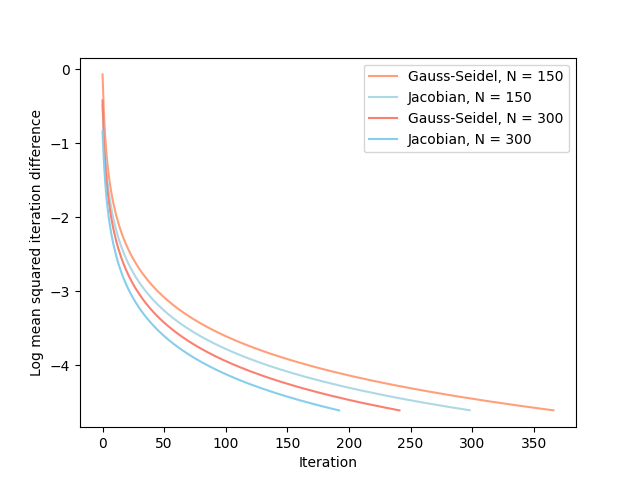
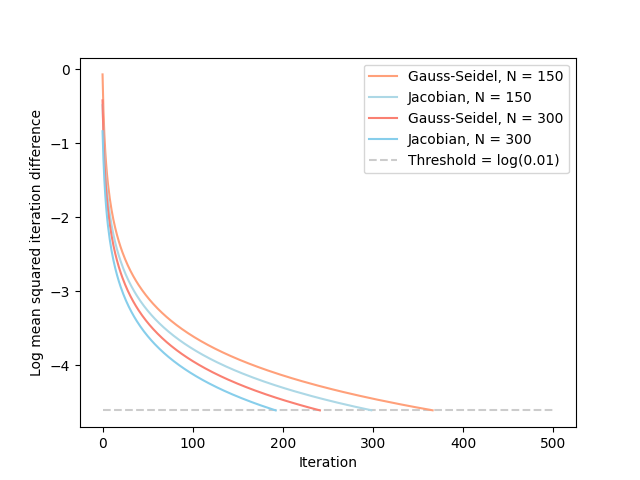
plots.py

diff --git a/assignment2/Poisson3D/plots.py b/assignment2/Poisson3D/plots.py
@@ -22,6 +22,7 @@ for i in range(1,len(sizes)):
     plt.plot(np.log(jacobian_data_arrays[i]), label="N = " + str(sizes[i]))
 plt.xlabel("Iteration")
 plt.ylabel("Log mean squared iteration difference")
+plt.hlines(np.log(0.01), 0, 500, color="black", linestyles="dashed", label="Threshold = log(0.01)", alpha=0.2)
 plt.legend()
 plt.savefig("assignment2/Poisson3D/jacobian_basic.png")
 
@@ -51,6 +52,7 @@ for i in range(1,len(sizes)):
     plt.plot(np.log(gauss_data_arrays[i]), label="N = " + str(sizes[i]))
 plt.xlabel("Iteration")
 plt.ylabel("Log mean squared iteration difference")
+plt.hlines(np.log(0.01), 0, 500, color="black", linestyles="dashed", label="Threshold = log(0.01)", alpha=0.2)
 plt.legend()
 plt.savefig("assignment2/Poisson3D/gauss_basic.png")
 
@@ -61,6 +63,7 @@ plt.plot(np.log(gauss_data_arrays[3]), c="lightsalmon", label="Gauss-Seidel, N =
 plt.plot(np.log(jacobian_data_arrays[3]), c="lightblue", label="Jacobian, N = 150")
 plt.plot(np.log(gauss_data_arrays[6]), c="salmon", label="Gauss-Seidel, N = 300")
 plt.plot(np.log(jacobian_data_arrays[6]), c="skyblue", label="Jacobian, N = 300")
+plt.hlines(np.log(0.01), 0, 500, color="black", linestyles="dashed", label="Threshold = log(0.01)", alpha=0.2)
 plt.xlabel("Iteration")
 plt.ylabel("Log mean squared iteration difference")
 plt.legend()

diff --git a/assignment2/Poisson3D/main.c b/assignment2/Poisson3D/main.c
@@ -112,7 +112,7 @@ main(int argc, char *argv[]) {
         perror("array u: allocation failed");
         exit(-1);
     }
-    // printf("Normal Jacobian \n");
+    printf("Normal Jacobian \n");
     init_u(u_new, N, start_T);
     jacobi(u, f, u_new, N, iter_max, tolerance);
     free_3d(u_new);
